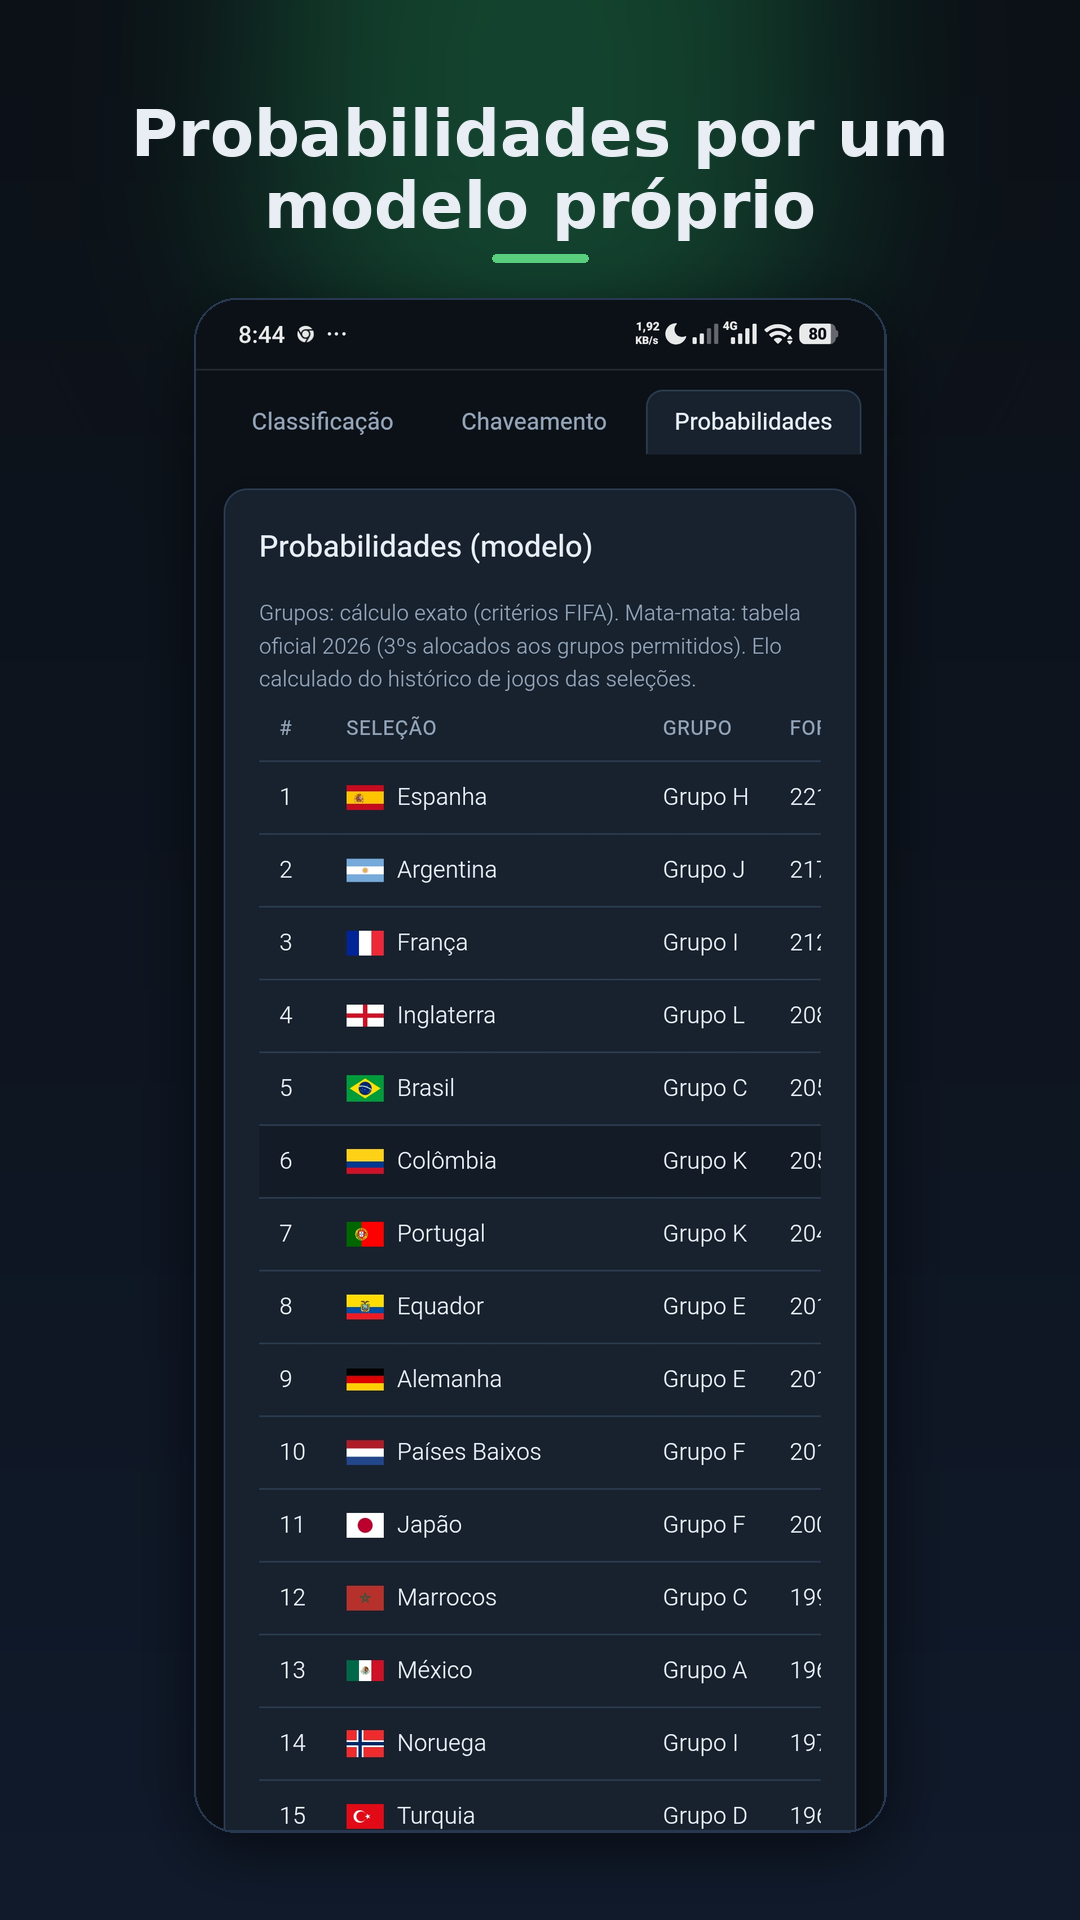
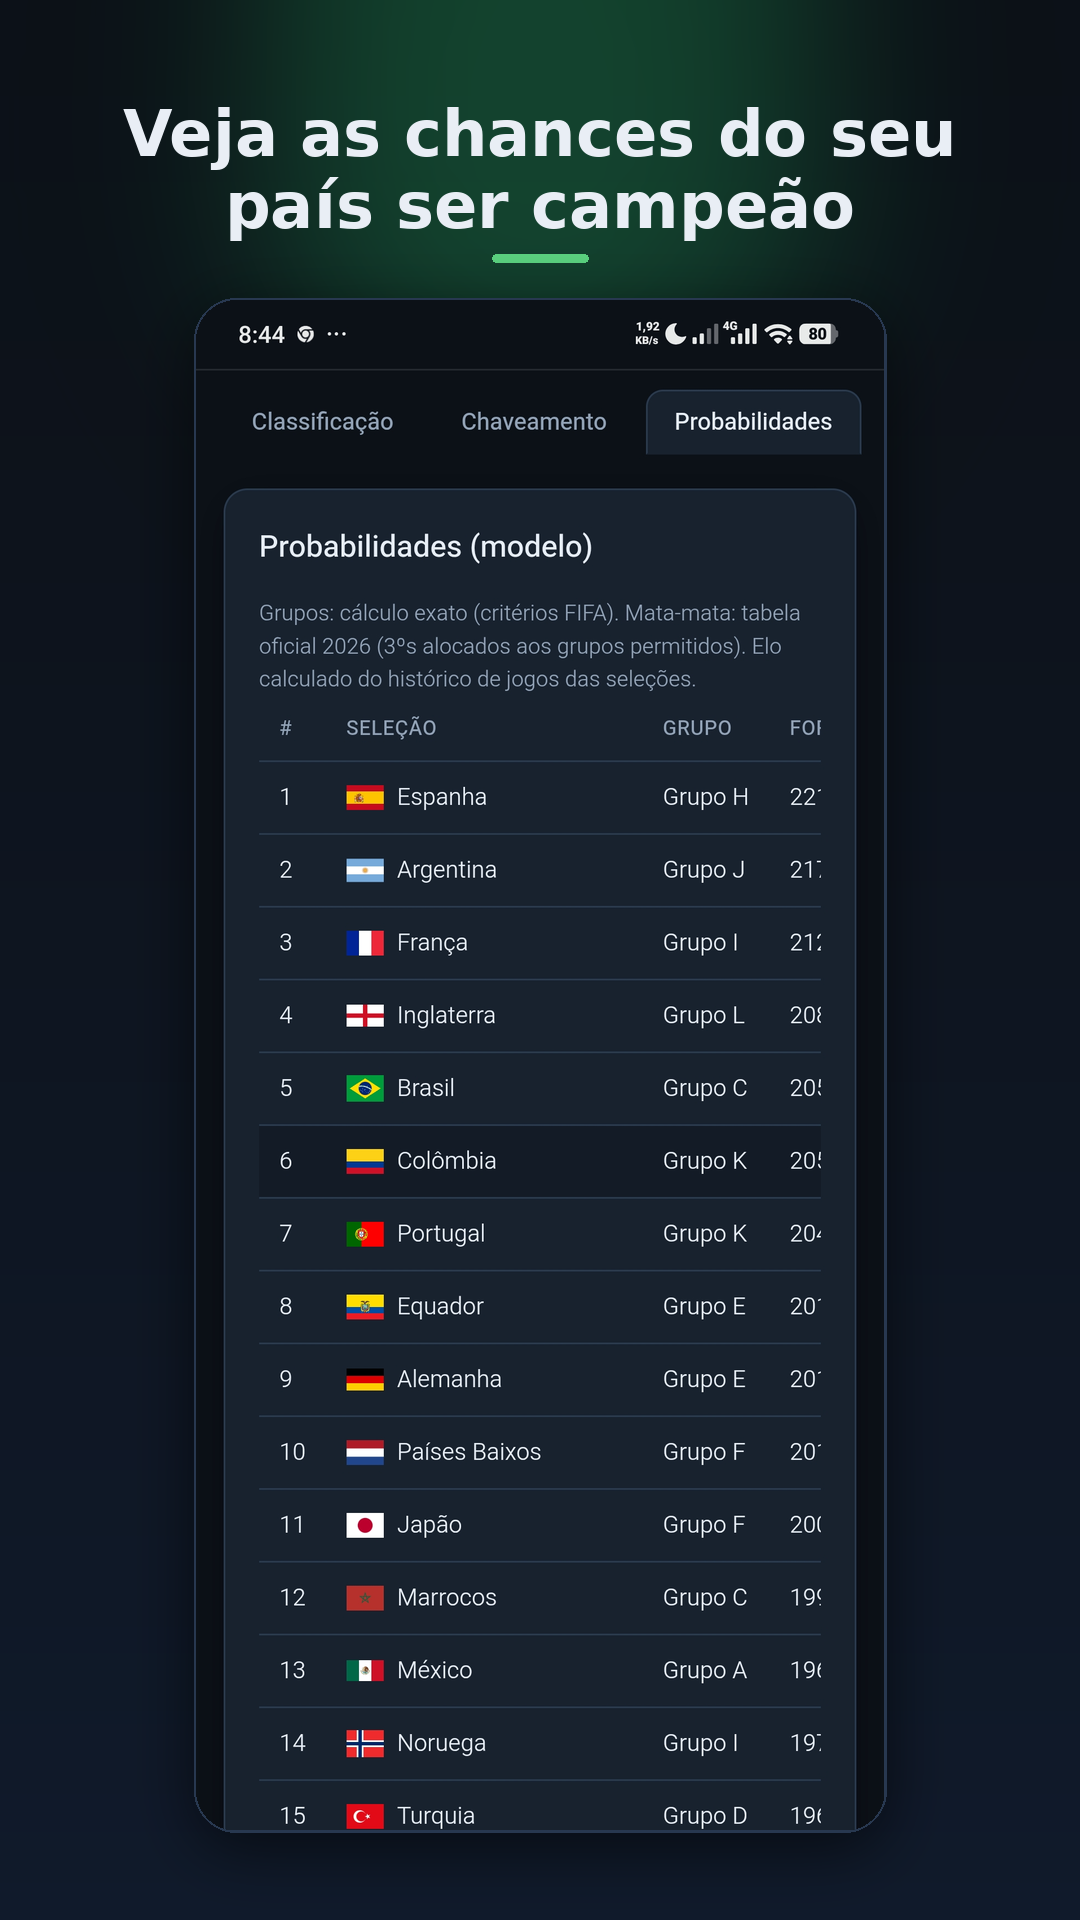
Update probabilities screenshot caption

Changed region(s): [[0.1222, 0.0312, 0.8861, 0.125]]

diff --git a/store/frame-screenshots.py b/store/frame-screenshots.py
@@ -23,7 +23,7 @@ os.makedirs(OUT, exist_ok=True)
 # Legendas por imagem, na ordem dos arquivos (01, 02, 03, ...).
 CAPTIONS = [
     "Tudo da Copa num só painel",
-    "Probabilidades por um modelo próprio",
+    "Veja as chances do seu país ser campeão",
     "Classificação dos 12 grupos",
     "Resumo diário das notícias por IA",
     "Calendário completo, filtro por fase",